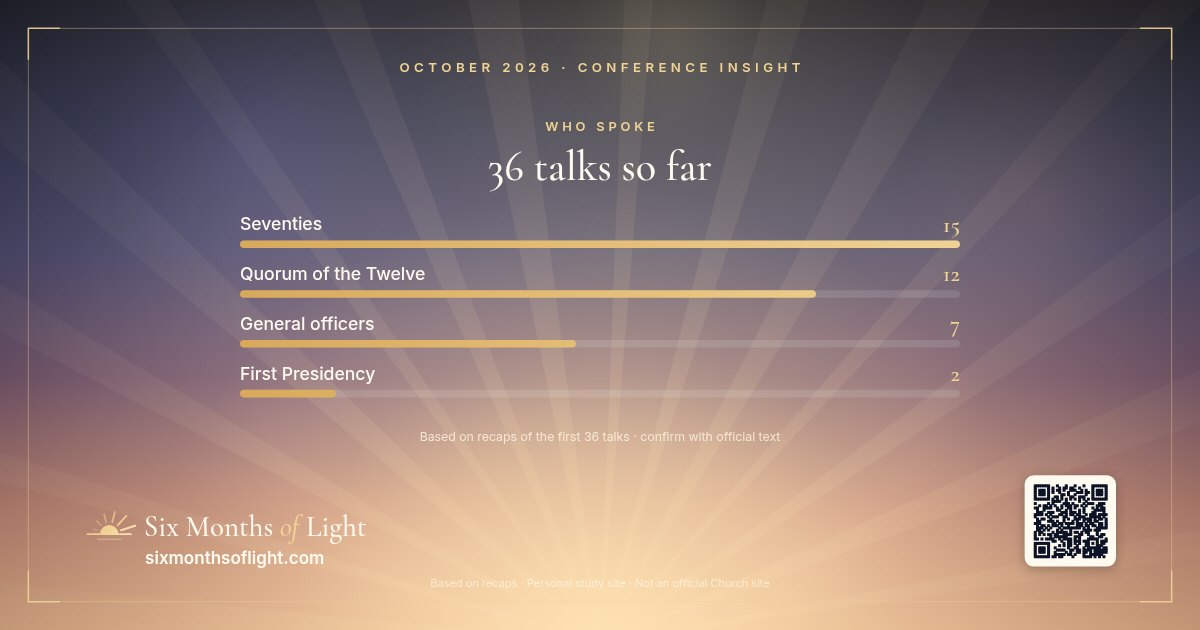
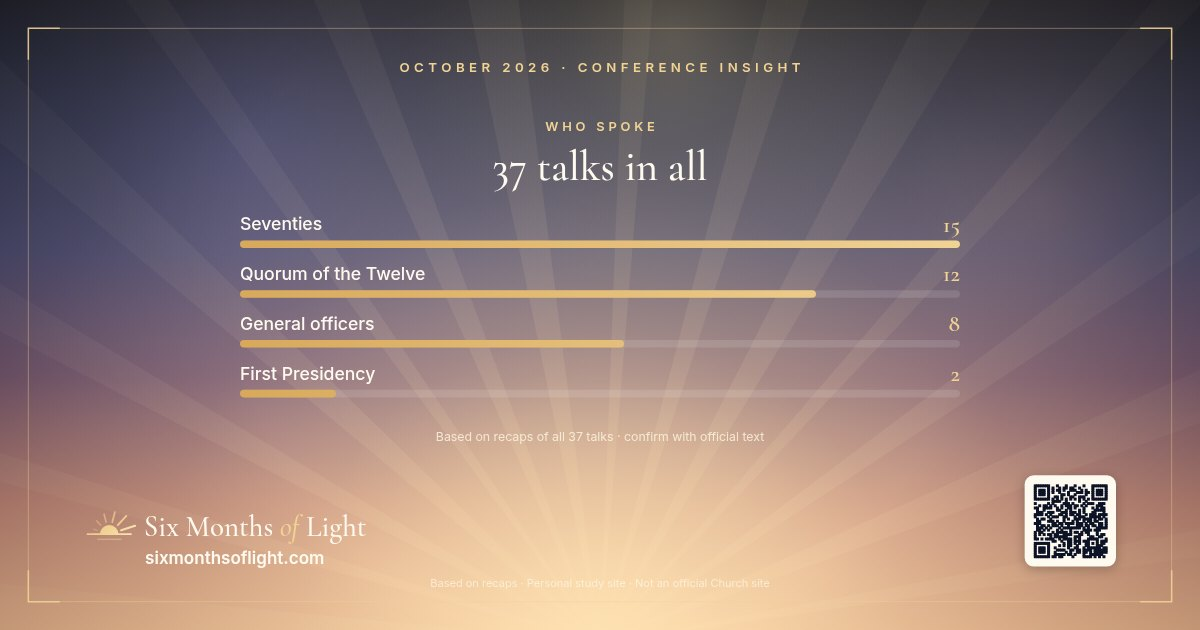
Add Sunday afternoon: President Dallin H. Oaks "Concluding Remarks"; Sunday afternoon session complete (all 37 talks)
From Church News and Newsroom recaps; official text not yet posted.

diff --git a/assets/data.js b/assets/data.js
@@ -48,8 +48,8 @@ window.CONF = {
    "name": "Sunday Afternoon Session",
    "when": "Sun, Oct 4 · 2:00–4:00pm MDT",
    "url": "https://www.churchofjesuschrist.org/study/general-conference/2026/10/sunday-afternoon-session?lang=eng",
-   "status": "pending",
-   "note": "In progress. Conducted by Elder Gérald Caussé. Music by The Tabernacle Choir at Temple Square (opening hymn: Let Zion in Her Beauty Rise; choir: Love Will Bless Our Home). Talks added from Church News recaps as they post."
+   "status": "complete",
+   "note": "Conducted by Elder Gérald Caussé. Prayers by Elder John D. Amos of the Seventy and Brother Chad H. Webb. Music by The Tabernacle Choir at Temple Square under Mack Wilberg and Ryan Murphy, with Richard Elliott and Joseph Peeples at the organ (opening hymn: Let Zion in Her Beauty Rise; choir: Love Will Bless Our Home). Closed by President Dallin H. Oaks."
   }
  ],
  "talks": [
@@ -917,6 +917,30 @@ window.CONF = {
    "invitation": "Stand for truth with love — avoid contention, find common ground, be a light, hold to truth, and stay anchored in Jesus Christ.",
    "ponder": "Do I need greater conviction or greater charity to teach truth with love — and where can I start this week?",
    "big_idea": "Stand for truth with love — for disciples of Jesus Christ, truth and love always walk together.",
+   "video_embed": null,
+   "full_text_permitted": false
+  },
+  {
+   "id": "sun-pm-10-oaks",
+   "session": "sun-pm",
+   "order": 10,
+   "speaker": "President Dallin H. Oaks",
+   "calling": "President of the Church",
+   "title": "Concluding Remarks",
+   "recap_url": "https://www.thechurchnews.com/general-conference/2026/10/04/president-dallin-oaks-october-2026-general-conference-concluding-remarks/",
+   "official_url": null,
+   "summary": "President Dallin H. Oaks, President of the Church, closed the conference. He said the messages of the conference and the Spirit of the Lord had inspired all to concentrate their worship, focus their learning and unite their testimonies on the teachings of the Lord Jesus Christ and His Father’s plan. He invited everyone to revisit the conference messages, prayerfully ponder them and act on the principles taught, reminding listeners of the Lord’s promise, “Unto him that receiveth I will give more” (2 Nephi 28:30). He invited the world, in person or virtually, to the Salt Lake Temple Celebration, when the renovated temple’s doors open to the public on April 5, 2027, the first such opening since 1893, and announced “Dedicate,” a new video series about the Salt Lake Temple premiering after the session, with more episodes and a virtual temple tour to come. He closed with a blessing of peace and contentment and his testimony that truth is to be found in the restored gospel of Jesus Christ.",
+   "scriptures": [
+    "2 Nephi 28:30"
+   ],
+   "quotes": [
+    "The great messages of this conference and the Spirit of the Lord have inspired all of us to concentrate our worship, focus our learning, and unite our testimonies on the teachings of the Lord Jesus Christ and His Father’s plan for our eternal increase and joy.",
+    "As we now go forward, we invoke the blessings of the Lord on you and your families — blessings of peace and contentment.",
+    "Truth is to be found here — truth about the teachings of the Lord and truth about the covenant path that will lead us to our destiny — the destiny desired by our Heavenly Father."
+   ],
+   "invitation": "Revisit the messages of this conference, prayerfully ponder them, and act on the principles taught.",
+   "ponder": "Which conference message will I go back to first, and what one principle from it will I act on?",
+   "big_idea": "Revisit, ponder and act on what was taught — unto him that receiveth, the Lord will give more.",
    "video_embed": null,
    "full_text_permitted": false
   }

diff --git a/q/sun-pm-10-oaks-3.html b/q/sun-pm-10-oaks-3.html
@@ -1,0 +1,14 @@
+<!doctype html>
+<html lang="en"><head><meta charset="utf-8"><meta name="viewport" content="width=device-width,initial-scale=1">
+<title>“Truth is to be found here — truth about the teachings of the Lord and truth about the covenant path that…” — President Dallin H. Oaks · Six Months of Light</title>
+<meta name="description" content="From “Concluding Remarks” (October 2026 General Conference, as quoted in recaps). Read the recap and make your own quote card.">
+<meta property="og:type" content="article"><meta property="og:site_name" content="Six Months of Light">
+<meta property="og:title" content="“Truth is to be found here — truth about the teachings of the Lord and truth about the covenant path that…” — President Dallin H. Oaks"><meta property="og:description" content="From “Concluding Remarks” (October 2026 General Conference, as quoted in recaps). Read the recap and make your own quote card.">
+<meta property="og:url" content="https://sixmonthsoflight.com/q/sun-pm-10-oaks-3.html"><meta property="og:image" content="https://sixmonthsoflight.com/assets/og/q/sun-pm-10-oaks-3.jpg">
+<meta property="og:image:width" content="1200"><meta property="og:image:height" content="630"><meta property="og:image:alt" content="Quote card: Truth is to be found here — truth about the teachings of the Lord and truth about the covenant path that… — President Dallin H. Oaks">
+<meta name="twitter:card" content="summary_large_image"><meta name="twitter:title" content="“Truth is to be found here — truth about the teachings of the Lord and truth about the covenant path that…” — President Dallin H. Oaks"><meta name="twitter:description" content="From “Concluding Remarks” (October 2026 General Conference, as quoted in recaps). Read the recap and make your own quote card."><meta name="twitter:image" content="https://sixmonthsoflight.com/assets/og/q/sun-pm-10-oaks-3.jpg">
+<meta name="robots" content="noindex,follow"><link rel="icon" href="../assets/logo-mark.svg" type="image/svg+xml">
+<meta http-equiv="refresh" content="0; url=../talks/sun-pm-10-oaks.html#q3">
+<style>body{font:16px/1.5 system-ui,sans-serif;background:#0d1326;color:#fffaf0;display:grid;place-items:center;min-height:100vh;margin:0;padding:24px;text-align:center}a{color:#f1d394}</style>
+</head><body><main><p>Opening the quote from President Dallin H. Oaks…</p><p><a href="../talks/sun-pm-10-oaks.html#q3">Continue to Six Months of Light →</a></p><p style="font-size:13px;opacity:.75">Not an official Church site · Personal study page</p></main>
+<script>location.replace("../talks/sun-pm-10-oaks.html#q3");</script></body></html>

diff --git a/q/sun-pm-10-oaks-2.html b/q/sun-pm-10-oaks-2.html
@@ -1,0 +1,14 @@
+<!doctype html>
+<html lang="en"><head><meta charset="utf-8"><meta name="viewport" content="width=device-width,initial-scale=1">
+<title>“As we now go forward, we invoke the blessings of the Lord on you and your families — blessings of peace…” — President Dallin H. Oaks · Six Months of Light</title>
+<meta name="description" content="From “Concluding Remarks” (October 2026 General Conference, as quoted in recaps). Read the recap and make your own quote card.">
+<meta property="og:type" content="article"><meta property="og:site_name" content="Six Months of Light">
+<meta property="og:title" content="“As we now go forward, we invoke the blessings of the Lord on you and your families — blessings of peace…” — President Dallin H. Oaks"><meta property="og:description" content="From “Concluding Remarks” (October 2026 General Conference, as quoted in recaps). Read the recap and make your own quote card.">
+<meta property="og:url" content="https://sixmonthsoflight.com/q/sun-pm-10-oaks-2.html"><meta property="og:image" content="https://sixmonthsoflight.com/assets/og/q/sun-pm-10-oaks-2.jpg">
+<meta property="og:image:width" content="1200"><meta property="og:image:height" content="630"><meta property="og:image:alt" content="Quote card: As we now go forward, we invoke the blessings of the Lord on you and your families — blessings of peace… — President Dallin H. Oaks">
+<meta name="twitter:card" content="summary_large_image"><meta name="twitter:title" content="“As we now go forward, we invoke the blessings of the Lord on you and your families — blessings of peace…” — President Dallin H. Oaks"><meta name="twitter:description" content="From “Concluding Remarks” (October 2026 General Conference, as quoted in recaps). Read the recap and make your own quote card."><meta name="twitter:image" content="https://sixmonthsoflight.com/assets/og/q/sun-pm-10-oaks-2.jpg">
+<meta name="robots" content="noindex,follow"><link rel="icon" href="../assets/logo-mark.svg" type="image/svg+xml">
+<meta http-equiv="refresh" content="0; url=../talks/sun-pm-10-oaks.html#q2">
+<style>body{font:16px/1.5 system-ui,sans-serif;background:#0d1326;color:#fffaf0;display:grid;place-items:center;min-height:100vh;margin:0;padding:24px;text-align:center}a{color:#f1d394}</style>
+</head><body><main><p>Opening the quote from President Dallin H. Oaks…</p><p><a href="../talks/sun-pm-10-oaks.html#q2">Continue to Six Months of Light →</a></p><p style="font-size:13px;opacity:.75">Not an official Church site · Personal study page</p></main>
+<script>location.replace("../talks/sun-pm-10-oaks.html#q2");</script></body></html>

diff --git a/q/sun-pm-10-oaks-1.html b/q/sun-pm-10-oaks-1.html
@@ -1,0 +1,14 @@
+<!doctype html>
+<html lang="en"><head><meta charset="utf-8"><meta name="viewport" content="width=device-width,initial-scale=1">
+<title>“The great messages of this conference and the Spirit of the Lord have inspired all of us to concentrate…” — President Dallin H. Oaks · Six Months of Light</title>
+<meta name="description" content="From “Concluding Remarks” (October 2026 General Conference, as quoted in recaps). Read the recap and make your own quote card.">
+<meta property="og:type" content="article"><meta property="og:site_name" content="Six Months of Light">
+<meta property="og:title" content="“The great messages of this conference and the Spirit of the Lord have inspired all of us to concentrate…” — President Dallin H. Oaks"><meta property="og:description" content="From “Concluding Remarks” (October 2026 General Conference, as quoted in recaps). Read the recap and make your own quote card.">
+<meta property="og:url" content="https://sixmonthsoflight.com/q/sun-pm-10-oaks-1.html"><meta property="og:image" content="https://sixmonthsoflight.com/assets/og/q/sun-pm-10-oaks-1.jpg">
+<meta property="og:image:width" content="1200"><meta property="og:image:height" content="630"><meta property="og:image:alt" content="Quote card: The great messages of this conference and the Spirit of the Lord have inspired all of us to concentrate… — President Dallin H. Oaks">
+<meta name="twitter:card" content="summary_large_image"><meta name="twitter:title" content="“The great messages of this conference and the Spirit of the Lord have inspired all of us to concentrate…” — President Dallin H. Oaks"><meta name="twitter:description" content="From “Concluding Remarks” (October 2026 General Conference, as quoted in recaps). Read the recap and make your own quote card."><meta name="twitter:image" content="https://sixmonthsoflight.com/assets/og/q/sun-pm-10-oaks-1.jpg">
+<meta name="robots" content="noindex,follow"><link rel="icon" href="../assets/logo-mark.svg" type="image/svg+xml">
+<meta http-equiv="refresh" content="0; url=../talks/sun-pm-10-oaks.html#q1">
+<style>body{font:16px/1.5 system-ui,sans-serif;background:#0d1326;color:#fffaf0;display:grid;place-items:center;min-height:100vh;margin:0;padding:24px;text-align:center}a{color:#f1d394}</style>
+</head><body><main><p>Opening the quote from President Dallin H. Oaks…</p><p><a href="../talks/sun-pm-10-oaks.html#q1">Continue to Six Months of Light →</a></p><p style="font-size:13px;opacity:.75">Not an official Church site · Personal study page</p></main>
+<script>location.replace("../talks/sun-pm-10-oaks.html#q1");</script></body></html>

diff --git a/i/who-spoke.html b/i/who-spoke.html
@@ -1,12 +1,12 @@
 <!doctype html>
 <html lang="en"><head><meta charset="utf-8"><meta name="viewport" content="width=device-width,initial-scale=1">
-<title>36 talks so far · October 2026 General Conference · Six Months of Light</title>
-<meta name="description" content="Who spoke at General Conference so far. Based on recaps.">
+<title>37 talks in all · October 2026 General Conference · Six Months of Light</title>
+<meta name="description" content="Who spoke at General Conference. Based on recaps.">
 <meta property="og:type" content="article"><meta property="og:site_name" content="Six Months of Light">
-<meta property="og:title" content="36 talks so far · October 2026 General Conference"><meta property="og:description" content="Who spoke at General Conference so far. Based on recaps.">
+<meta property="og:title" content="37 talks in all · October 2026 General Conference"><meta property="og:description" content="Who spoke at General Conference. Based on recaps.">
 <meta property="og:url" content="https://sixmonthsoflight.com/i/who-spoke.html"><meta property="og:image" content="https://sixmonthsoflight.com/assets/og/i/who-spoke.jpg">
-<meta property="og:image:width" content="1200"><meta property="og:image:height" content="630"><meta property="og:image:alt" content="36 talks so far">
-<meta name="twitter:card" content="summary_large_image"><meta name="twitter:title" content="36 talks so far · October 2026 General Conference"><meta name="twitter:description" content="Who spoke at General Conference so far. Based on recaps."><meta name="twitter:image" content="https://sixmonthsoflight.com/assets/og/i/who-spoke.jpg">
+<meta property="og:image:width" content="1200"><meta property="og:image:height" content="630"><meta property="og:image:alt" content="37 talks in all">
+<meta name="twitter:card" content="summary_large_image"><meta name="twitter:title" content="37 talks in all · October 2026 General Conference"><meta name="twitter:description" content="Who spoke at General Conference. Based on recaps."><meta name="twitter:image" content="https://sixmonthsoflight.com/assets/og/i/who-spoke.jpg">
 <meta name="robots" content="noindex,follow"><link rel="icon" href="../assets/logo-mark.svg" type="image/svg+xml">
 <meta http-equiv="refresh" content="0; url=../insights.html#who-spoke">
 <style>body{font:16px/1.5 system-ui,sans-serif;background:#0d1326;color:#fffaf0;display:grid;place-items:center;min-height:100vh;margin:0;padding:24px;text-align:center}a{color:#f1d394}</style>

diff --git a/i/christ.html b/i/christ.html
@@ -1,12 +1,12 @@
 <!doctype html>
 <html lang="en"><head><meta charset="utf-8"><meta name="viewport" content="width=device-width,initial-scale=1">
 <title>He was named again and again · October 2026 General Conference · Six Months of Light</title>
-<meta name="description" content="Jesus Christ was named 182 times in recaps of 30 of 36 talks. Based on recaps.">
+<meta name="description" content="Jesus Christ was named 188 times in recaps of 31 of 37 talks. Based on recaps.">
 <meta property="og:type" content="article"><meta property="og:site_name" content="Six Months of Light">
-<meta property="og:title" content="He was named again and again · October 2026 General Conference"><meta property="og:description" content="Jesus Christ was named 182 times in recaps of 30 of 36 talks. Based on recaps.">
+<meta property="og:title" content="He was named again and again · October 2026 General Conference"><meta property="og:description" content="Jesus Christ was named 188 times in recaps of 31 of 37 talks. Based on recaps.">
 <meta property="og:url" content="https://sixmonthsoflight.com/i/christ.html"><meta property="og:image" content="https://sixmonthsoflight.com/assets/og/i/christ.jpg">
 <meta property="og:image:width" content="1200"><meta property="og:image:height" content="630"><meta property="og:image:alt" content="He was named again and again">
-<meta name="twitter:card" content="summary_large_image"><meta name="twitter:title" content="He was named again and again · October 2026 General Conference"><meta name="twitter:description" content="Jesus Christ was named 182 times in recaps of 30 of 36 talks. Based on recaps."><meta name="twitter:image" content="https://sixmonthsoflight.com/assets/og/i/christ.jpg">
+<meta name="twitter:card" content="summary_large_image"><meta name="twitter:title" content="He was named again and again · October 2026 General Conference"><meta name="twitter:description" content="Jesus Christ was named 188 times in recaps of 31 of 37 talks. Based on recaps."><meta name="twitter:image" content="https://sixmonthsoflight.com/assets/og/i/christ.jpg">
 <meta name="robots" content="noindex,follow"><link rel="icon" href="../assets/logo-mark.svg" type="image/svg+xml">
 <meta http-equiv="refresh" content="0; url=../insights.html#christ">
 <style>body{font:16px/1.5 system-ui,sans-serif;background:#0d1326;color:#fffaf0;display:grid;place-items:center;min-height:100vh;margin:0;padding:24px;text-align:center}a{color:#f1d394}</style>

diff --git a/i/top-words.html b/i/top-words.html
@@ -1,12 +1,12 @@
 <!doctype html>
 <html lang="en"><head><meta charset="utf-8"><meta name="viewport" content="width=device-width,initial-scale=1">
 <title>What the conference kept saying · October 2026 General Conference · Six Months of Light</title>
-<meta name="description" content="The words General Conference so far kept coming back to. Based on recaps.">
+<meta name="description" content="The words General Conference kept coming back to. Based on recaps.">
 <meta property="og:type" content="article"><meta property="og:site_name" content="Six Months of Light">
-<meta property="og:title" content="What the conference kept saying · October 2026 General Conference"><meta property="og:description" content="The words General Conference so far kept coming back to. Based on recaps.">
+<meta property="og:title" content="What the conference kept saying · October 2026 General Conference"><meta property="og:description" content="The words General Conference kept coming back to. Based on recaps.">
 <meta property="og:url" content="https://sixmonthsoflight.com/i/top-words.html"><meta property="og:image" content="https://sixmonthsoflight.com/assets/og/i/top-words.jpg">
 <meta property="og:image:width" content="1200"><meta property="og:image:height" content="630"><meta property="og:image:alt" content="What the conference kept saying">
-<meta name="twitter:card" content="summary_large_image"><meta name="twitter:title" content="What the conference kept saying · October 2026 General Conference"><meta name="twitter:description" content="The words General Conference so far kept coming back to. Based on recaps."><meta name="twitter:image" content="https://sixmonthsoflight.com/assets/og/i/top-words.jpg">
+<meta name="twitter:card" content="summary_large_image"><meta name="twitter:title" content="What the conference kept saying · October 2026 General Conference"><meta name="twitter:description" content="The words General Conference kept coming back to. Based on recaps."><meta name="twitter:image" content="https://sixmonthsoflight.com/assets/og/i/top-words.jpg">
 <meta name="robots" content="noindex,follow"><link rel="icon" href="../assets/logo-mark.svg" type="image/svg+xml">
 <meta http-equiv="refresh" content="0; url=../insights.html#top-words">
 <style>body{font:16px/1.5 system-ui,sans-serif;background:#0d1326;color:#fffaf0;display:grid;place-items:center;min-height:100vh;margin:0;padding:24px;text-align:center}a{color:#f1d394}</style>

diff --git a/i/scriptures.html b/i/scriptures.html
@@ -1,12 +1,12 @@
 <!doctype html>
 <html lang="en"><head><meta charset="utf-8"><meta name="viewport" content="width=device-width,initial-scale=1">
 <title>Back to the scriptures · October 2026 General Conference · Six Months of Light</title>
-<meta name="description" content="23 scripture references in recaps of the first 36 talks. Based on recaps.">
+<meta name="description" content="23 scripture references in recaps of all 37 talks. Based on recaps.">
 <meta property="og:type" content="article"><meta property="og:site_name" content="Six Months of Light">
-<meta property="og:title" content="Back to the scriptures · October 2026 General Conference"><meta property="og:description" content="23 scripture references in recaps of the first 36 talks. Based on recaps.">
+<meta property="og:title" content="Back to the scriptures · October 2026 General Conference"><meta property="og:description" content="23 scripture references in recaps of all 37 talks. Based on recaps.">
 <meta property="og:url" content="https://sixmonthsoflight.com/i/scriptures.html"><meta property="og:image" content="https://sixmonthsoflight.com/assets/og/i/scriptures.jpg">
 <meta property="og:image:width" content="1200"><meta property="og:image:height" content="630"><meta property="og:image:alt" content="Back to the scriptures">
-<meta name="twitter:card" content="summary_large_image"><meta name="twitter:title" content="Back to the scriptures · October 2026 General Conference"><meta name="twitter:description" content="23 scripture references in recaps of the first 36 talks. Based on recaps."><meta name="twitter:image" content="https://sixmonthsoflight.com/assets/og/i/scriptures.jpg">
+<meta name="twitter:card" content="summary_large_image"><meta name="twitter:title" content="Back to the scriptures · October 2026 General Conference"><meta name="twitter:description" content="23 scripture references in recaps of all 37 talks. Based on recaps."><meta name="twitter:image" content="https://sixmonthsoflight.com/assets/og/i/scriptures.jpg">
 <meta name="robots" content="noindex,follow"><link rel="icon" href="../assets/logo-mark.svg" type="image/svg+xml">
 <meta http-equiv="refresh" content="0; url=../insights.html#scriptures">
 <style>body{font:16px/1.5 system-ui,sans-serif;background:#0d1326;color:#fffaf0;display:grid;place-items:center;min-height:100vh;margin:0;padding:24px;text-align:center}a{color:#f1d394}</style>

diff --git a/i/ten-words.html b/i/ten-words.html
@@ -1,12 +1,12 @@
 <!doctype html>
 <html lang="en"><head><meta charset="utf-8"><meta name="viewport" content="width=device-width,initial-scale=1">
 <title>The conference in 10 words · October 2026 General Conference · Six Months of Light</title>
-<meta name="description" content="October 2026 General Conference so far in 10 words. Based on recaps.">
+<meta name="description" content="October 2026 General Conference in 10 words. Based on recaps.">
 <meta property="og:type" content="article"><meta property="og:site_name" content="Six Months of Light">
-<meta property="og:title" content="The conference in 10 words · October 2026 General Conference"><meta property="og:description" content="October 2026 General Conference so far in 10 words. Based on recaps.">
+<meta property="og:title" content="The conference in 10 words · October 2026 General Conference"><meta property="og:description" content="October 2026 General Conference in 10 words. Based on recaps.">
 <meta property="og:url" content="https://sixmonthsoflight.com/i/ten-words.html"><meta property="og:image" content="https://sixmonthsoflight.com/assets/og/i/ten-words.jpg">
 <meta property="og:image:width" content="1200"><meta property="og:image:height" content="630"><meta property="og:image:alt" content="The conference in 10 words">
-<meta name="twitter:card" content="summary_large_image"><meta name="twitter:title" content="The conference in 10 words · October 2026 General Conference"><meta name="twitter:description" content="October 2026 General Conference so far in 10 words. Based on recaps."><meta name="twitter:image" content="https://sixmonthsoflight.com/assets/og/i/ten-words.jpg">
+<meta name="twitter:card" content="summary_large_image"><meta name="twitter:title" content="The conference in 10 words · October 2026 General Conference"><meta name="twitter:description" content="October 2026 General Conference in 10 words. Based on recaps."><meta name="twitter:image" content="https://sixmonthsoflight.com/assets/og/i/ten-words.jpg">
 <meta name="robots" content="noindex,follow"><link rel="icon" href="../assets/logo-mark.svg" type="image/svg+xml">
 <meta http-equiv="refresh" content="0; url=../insights.html#ten-words">
 <style>body{font:16px/1.5 system-ui,sans-serif;background:#0d1326;color:#fffaf0;display:grid;place-items:center;min-height:100vh;margin:0;padding:24px;text-align:center}a{color:#f1d394}</style>

diff --git a/i/themes-by-session.html b/i/themes-by-session.html
@@ -1,12 +1,12 @@
 <!doctype html>
 <html lang="en"><head><meta charset="utf-8"><meta name="viewport" content="width=device-width,initial-scale=1">
 <title>Each session&#x27;s focus · October 2026 General Conference · Six Months of Light</title>
-<meta name="description" content="The leading themes in each session so far. Based on recaps.">
+<meta name="description" content="The leading themes in each session. Based on recaps.">
 <meta property="og:type" content="article"><meta property="og:site_name" content="Six Months of Light">
-<meta property="og:title" content="Each session&#x27;s focus · October 2026 General Conference"><meta property="og:description" content="The leading themes in each session so far. Based on recaps.">
+<meta property="og:title" content="Each session&#x27;s focus · October 2026 General Conference"><meta property="og:description" content="The leading themes in each session. Based on recaps.">
 <meta property="og:url" content="https://sixmonthsoflight.com/i/themes-by-session.html"><meta property="og:image" content="https://sixmonthsoflight.com/assets/og/i/themes-by-session.jpg">
 <meta property="og:image:width" content="1200"><meta property="og:image:height" content="630"><meta property="og:image:alt" content="Each session&#x27;s focus">
-<meta name="twitter:card" content="summary_large_image"><meta name="twitter:title" content="Each session&#x27;s focus · October 2026 General Conference"><meta name="twitter:description" content="The leading themes in each session so far. Based on recaps."><meta name="twitter:image" content="https://sixmonthsoflight.com/assets/og/i/themes-by-session.jpg">
+<meta name="twitter:card" content="summary_large_image"><meta name="twitter:title" content="Each session&#x27;s focus · October 2026 General Conference"><meta name="twitter:description" content="The leading themes in each session. Based on recaps."><meta name="twitter:image" content="https://sixmonthsoflight.com/assets/og/i/themes-by-session.jpg">
 <meta name="robots" content="noindex,follow"><link rel="icon" href="../assets/logo-mark.svg" type="image/svg+xml">
 <meta http-equiv="refresh" content="0; url=../insights.html#themes-by-session">
 <style>body{font:16px/1.5 system-ui,sans-serif;background:#0d1326;color:#fffaf0;display:grid;place-items:center;min-height:100vh;margin:0;padding:24px;text-align:center}a{color:#f1d394}</style>

diff --git a/i/themes.html b/i/themes.html
@@ -1,12 +1,12 @@
 <!doctype html>
 <html lang="en"><head><meta charset="utf-8"><meta name="viewport" content="width=device-width,initial-scale=1">
 <title>What the talks were about · October 2026 General Conference · Six Months of Light</title>
-<meta name="description" content="The top themes from General Conference so far. Based on recaps.">
+<meta name="description" content="The top themes from General Conference. Based on recaps.">
 <meta property="og:type" content="article"><meta property="og:site_name" content="Six Months of Light">
-<meta property="og:title" content="What the talks were about · October 2026 General Conference"><meta property="og:description" content="The top themes from General Conference so far. Based on recaps.">
+<meta property="og:title" content="What the talks were about · October 2026 General Conference"><meta property="og:description" content="The top themes from General Conference. Based on recaps.">
 <meta property="og:url" content="https://sixmonthsoflight.com/i/themes.html"><meta property="og:image" content="https://sixmonthsoflight.com/assets/og/i/themes.jpg">
 <meta property="og:image:width" content="1200"><meta property="og:image:height" content="630"><meta property="og:image:alt" content="What the talks were about">
-<meta name="twitter:card" content="summary_large_image"><meta name="twitter:title" content="What the talks were about · October 2026 General Conference"><meta name="twitter:description" content="The top themes from General Conference so far. Based on recaps."><meta name="twitter:image" content="https://sixmonthsoflight.com/assets/og/i/themes.jpg">
+<meta name="twitter:card" content="summary_large_image"><meta name="twitter:title" content="What the talks were about · October 2026 General Conference"><meta name="twitter:description" content="The top themes from General Conference. Based on recaps."><meta name="twitter:image" content="https://sixmonthsoflight.com/assets/og/i/themes.jpg">
 <meta name="robots" content="noindex,follow"><link rel="icon" href="../assets/logo-mark.svg" type="image/svg+xml">
 <meta http-equiv="refresh" content="0; url=../insights.html#themes">
 <style>body{font:16px/1.5 system-ui,sans-serif;background:#0d1326;color:#fffaf0;display:grid;place-items:center;min-height:100vh;margin:0;padding:24px;text-align:center}a{color:#f1d394}</style>

diff --git a/talks/sun-pm-10-oaks.html b/talks/sun-pm-10-oaks.html
@@ -1,0 +1,34 @@
+<!doctype html>
+<html lang="en">
+<head>
+<meta charset="utf-8">
+<base href="../">
+<meta name="viewport" content="width=device-width,initial-scale=1">
+<title>Concluding Remarks — President Dallin H. Oaks · Six Months of Light</title>
+<meta name="description" content="Revisit, ponder and act on what was taught — unto him that receiveth, the Lord will give more. Six Months of Light: summary, scriptures, quote cards &amp; ponder questions. Not an official Church site.">
+<link rel="canonical" href="https://sixmonthsoflight.com/talks/sun-pm-10-oaks.html">
+<meta property="og:type" content="article">
+<meta property="og:site_name" content="Six Months of Light">
+<meta property="og:title" content="Concluding Remarks — President Dallin H. Oaks">
+<meta property="og:description" content="Revisit, ponder and act on what was taught — unto him that receiveth, the Lord will give more. Six Months of Light: summary, scriptures, quote cards &amp; ponder questions. Not an official Church site.">
+<meta property="og:url" content="https://sixmonthsoflight.com/talks/sun-pm-10-oaks.html">
+<meta property="og:image" content="https://sixmonthsoflight.com/assets/og/sun-pm-10-oaks.jpg">
+<meta property="og:image:width" content="1200"><meta property="og:image:height" content="630">
+<meta property="og:image:alt" content="Concluding Remarks by President Dallin H. Oaks">
+<meta name="twitter:card" content="summary_large_image">
+<meta name="theme-color" content="#0d1326">
+<link rel="icon" href="assets/logo-mark.svg" type="image/svg+xml">
+<link rel="preload" href="assets/fonts/CormorantGaramond.woff2" as="font" type="font/woff2" crossorigin>
+<link rel="stylesheet" href="assets/styles.css">
+</head>
+<body>
+<main class="wrap" id="main"></main>
+<script>window.TALK_ID = "sun-pm-10-oaks";</script>
+<script src="assets/config.js"></script>
+<script src="assets/api.js"></script>
+<script src="assets/data.js"></script>
+<script src="assets/common.js"></script>
+<script src="assets/pages/share.js"></script>
+<script src="assets/pages/talk.js"></script>
+</body>
+</html>
